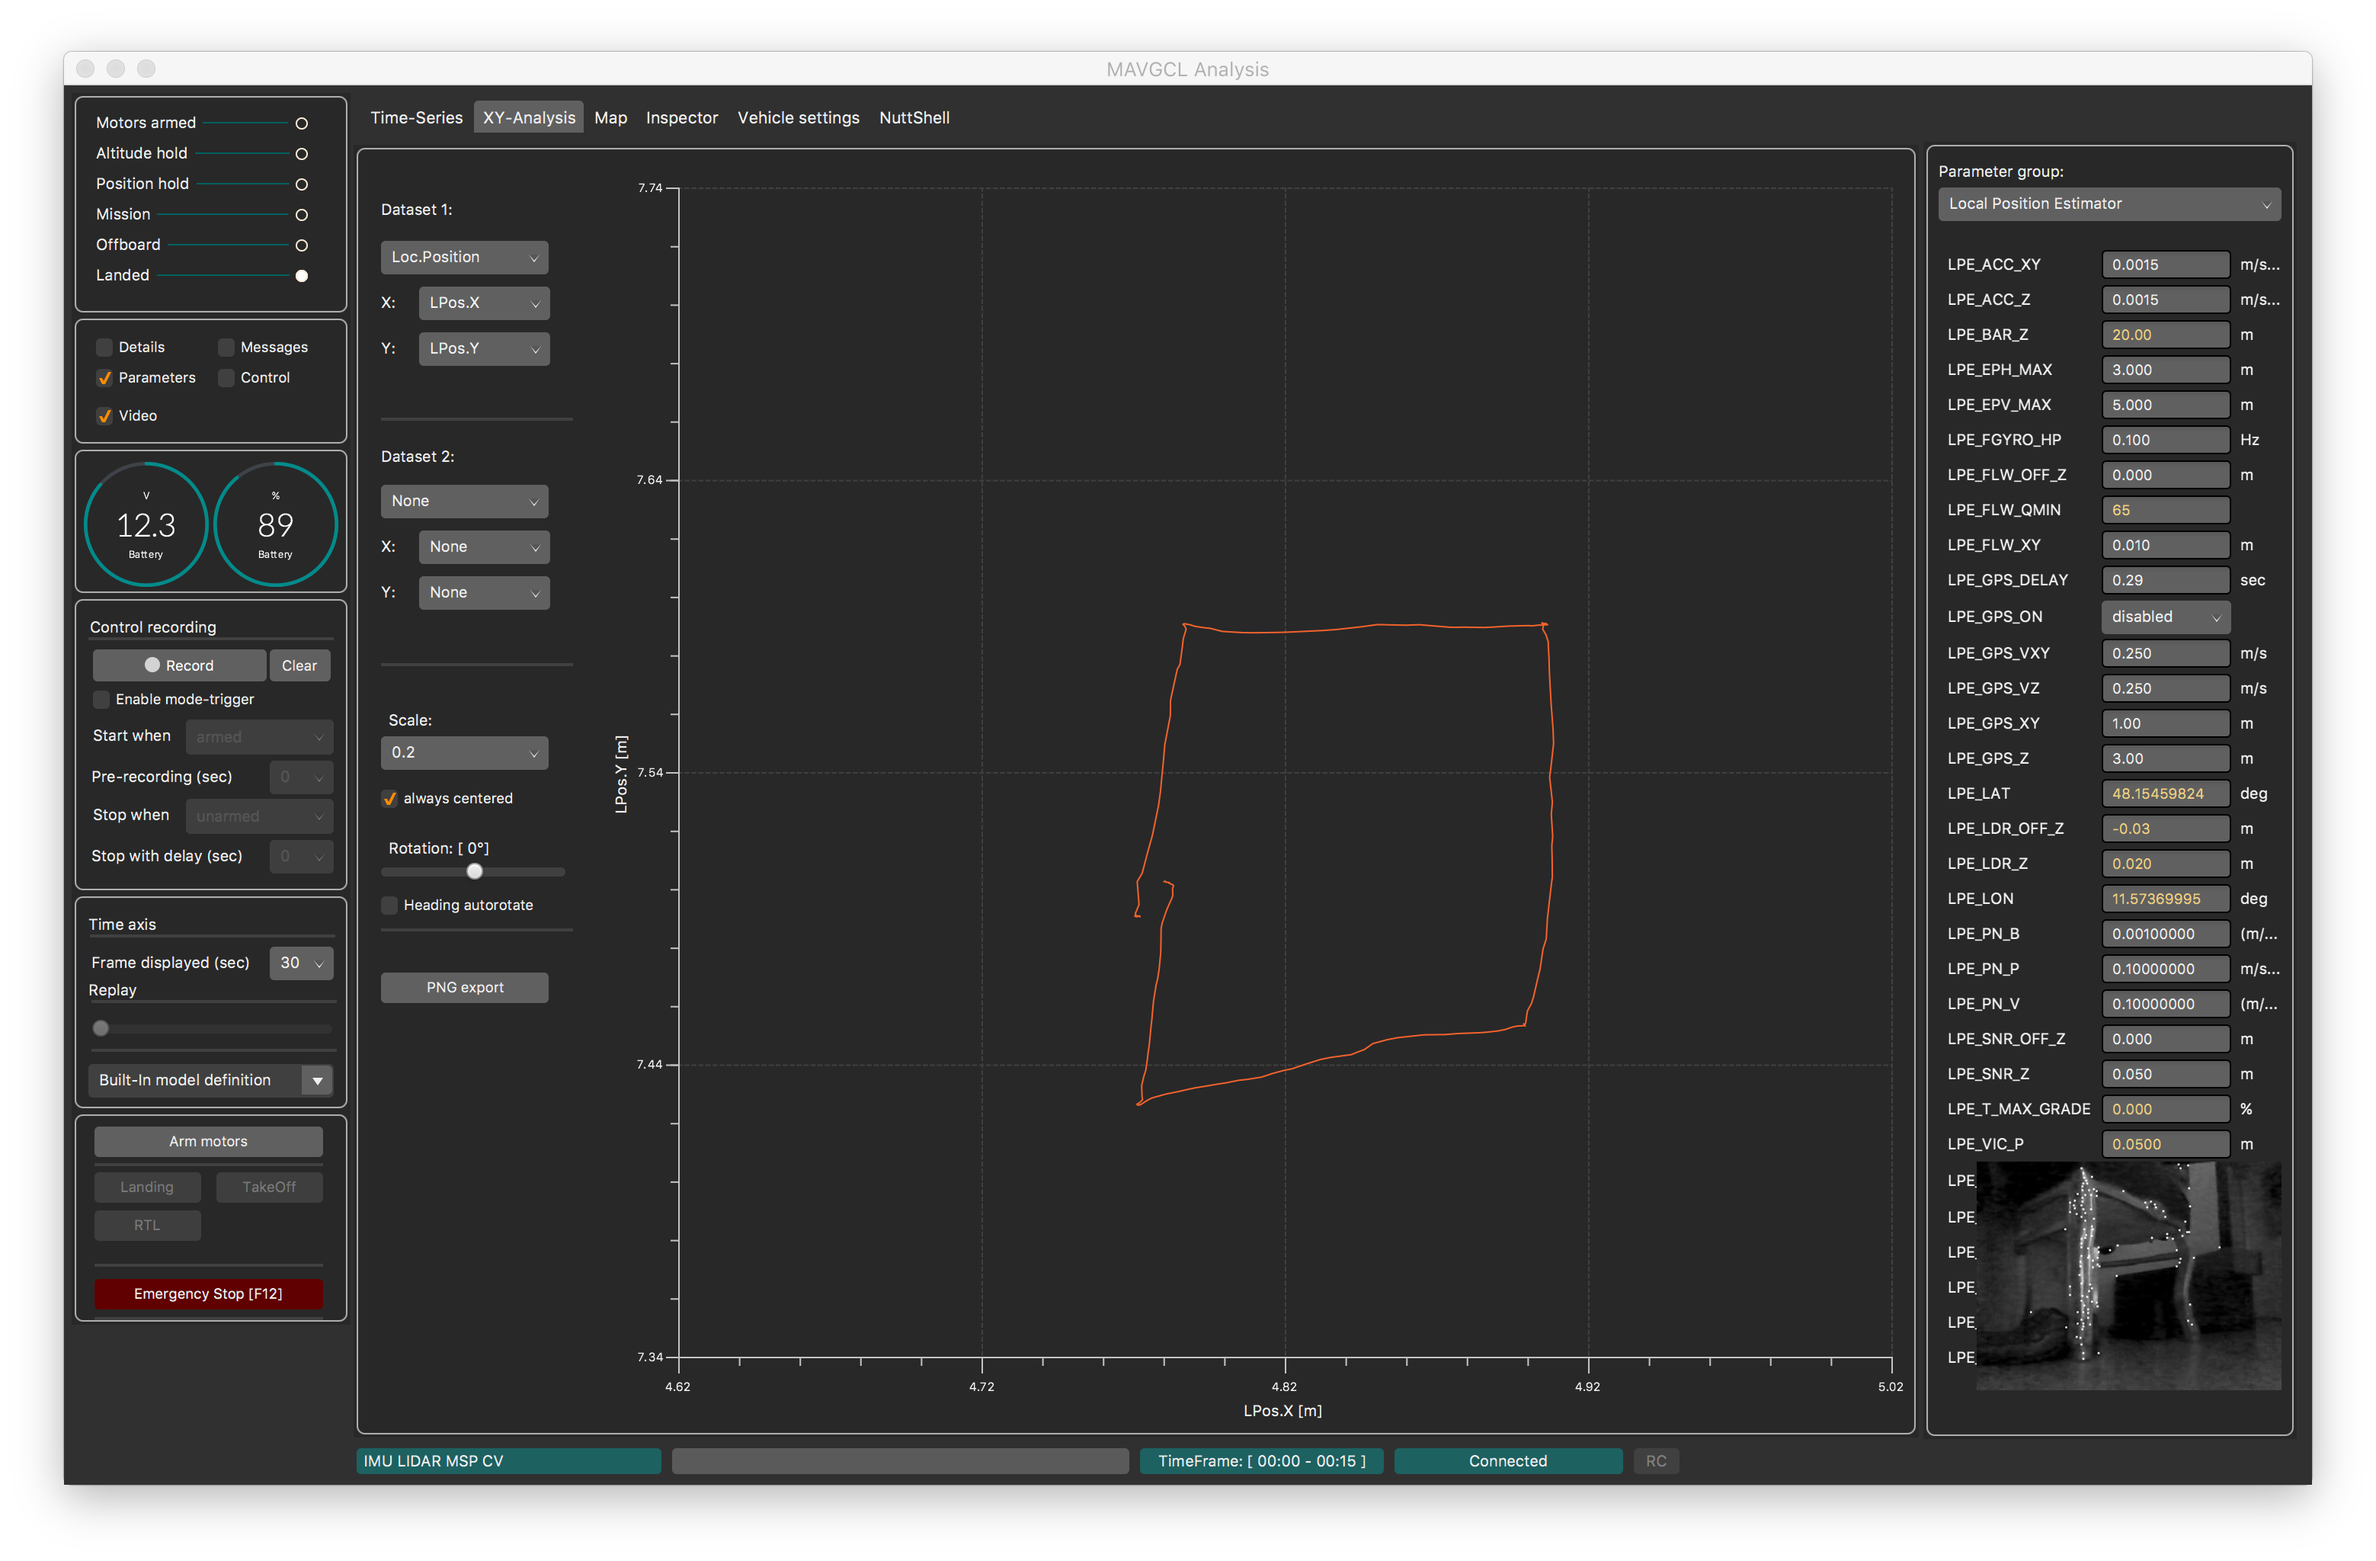
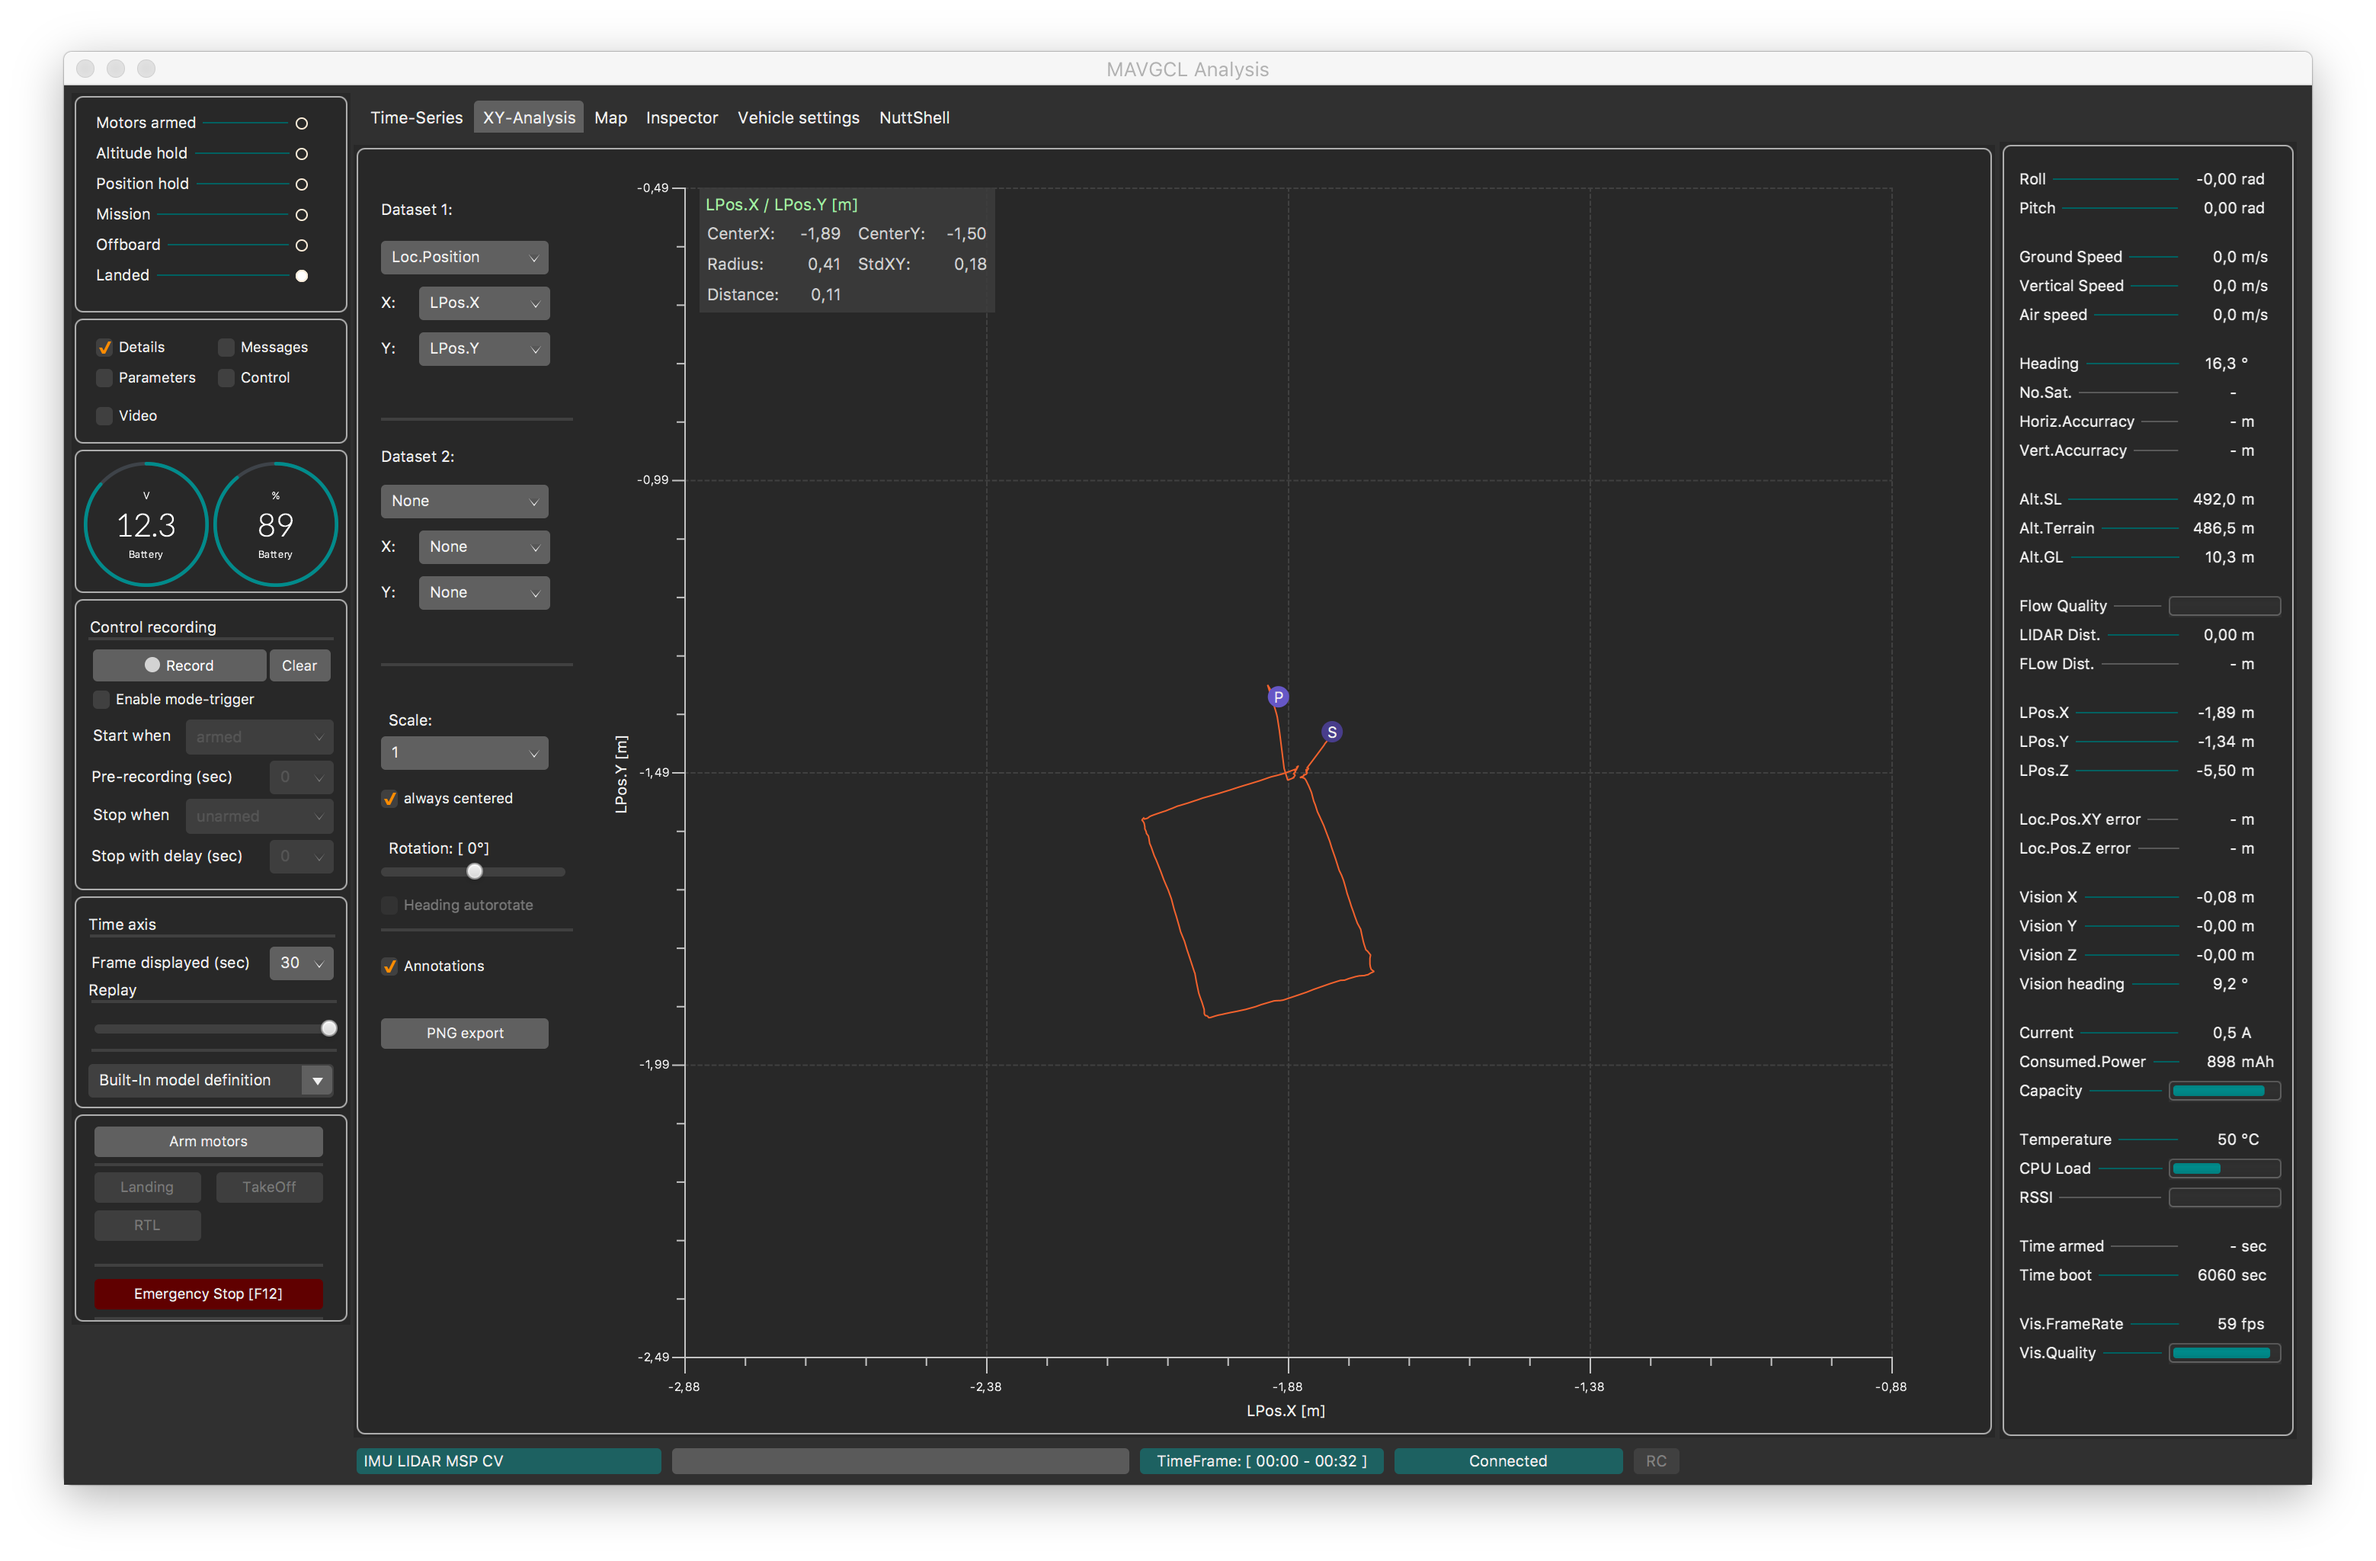
Screenshot and readme updates

diff --git a/README.md b/README.md
@@ -12,11 +12,11 @@ This JavaFx based tool enables PX4 Users to record and analyse data published vi
 
 Any feedback, comments and contributions are very welcome.
 
-**Development Status:** Last updated 22/09/2016 
+**Development Status:** Last updated 30/09/2016 
 
 - MJPEG fixes for onboard visual system
 - Dashboard overlay shows statistics of displayed data
-- Acquisition of custom MAVLink messages
+- XYChart overlays
 
 **Features:**
 
